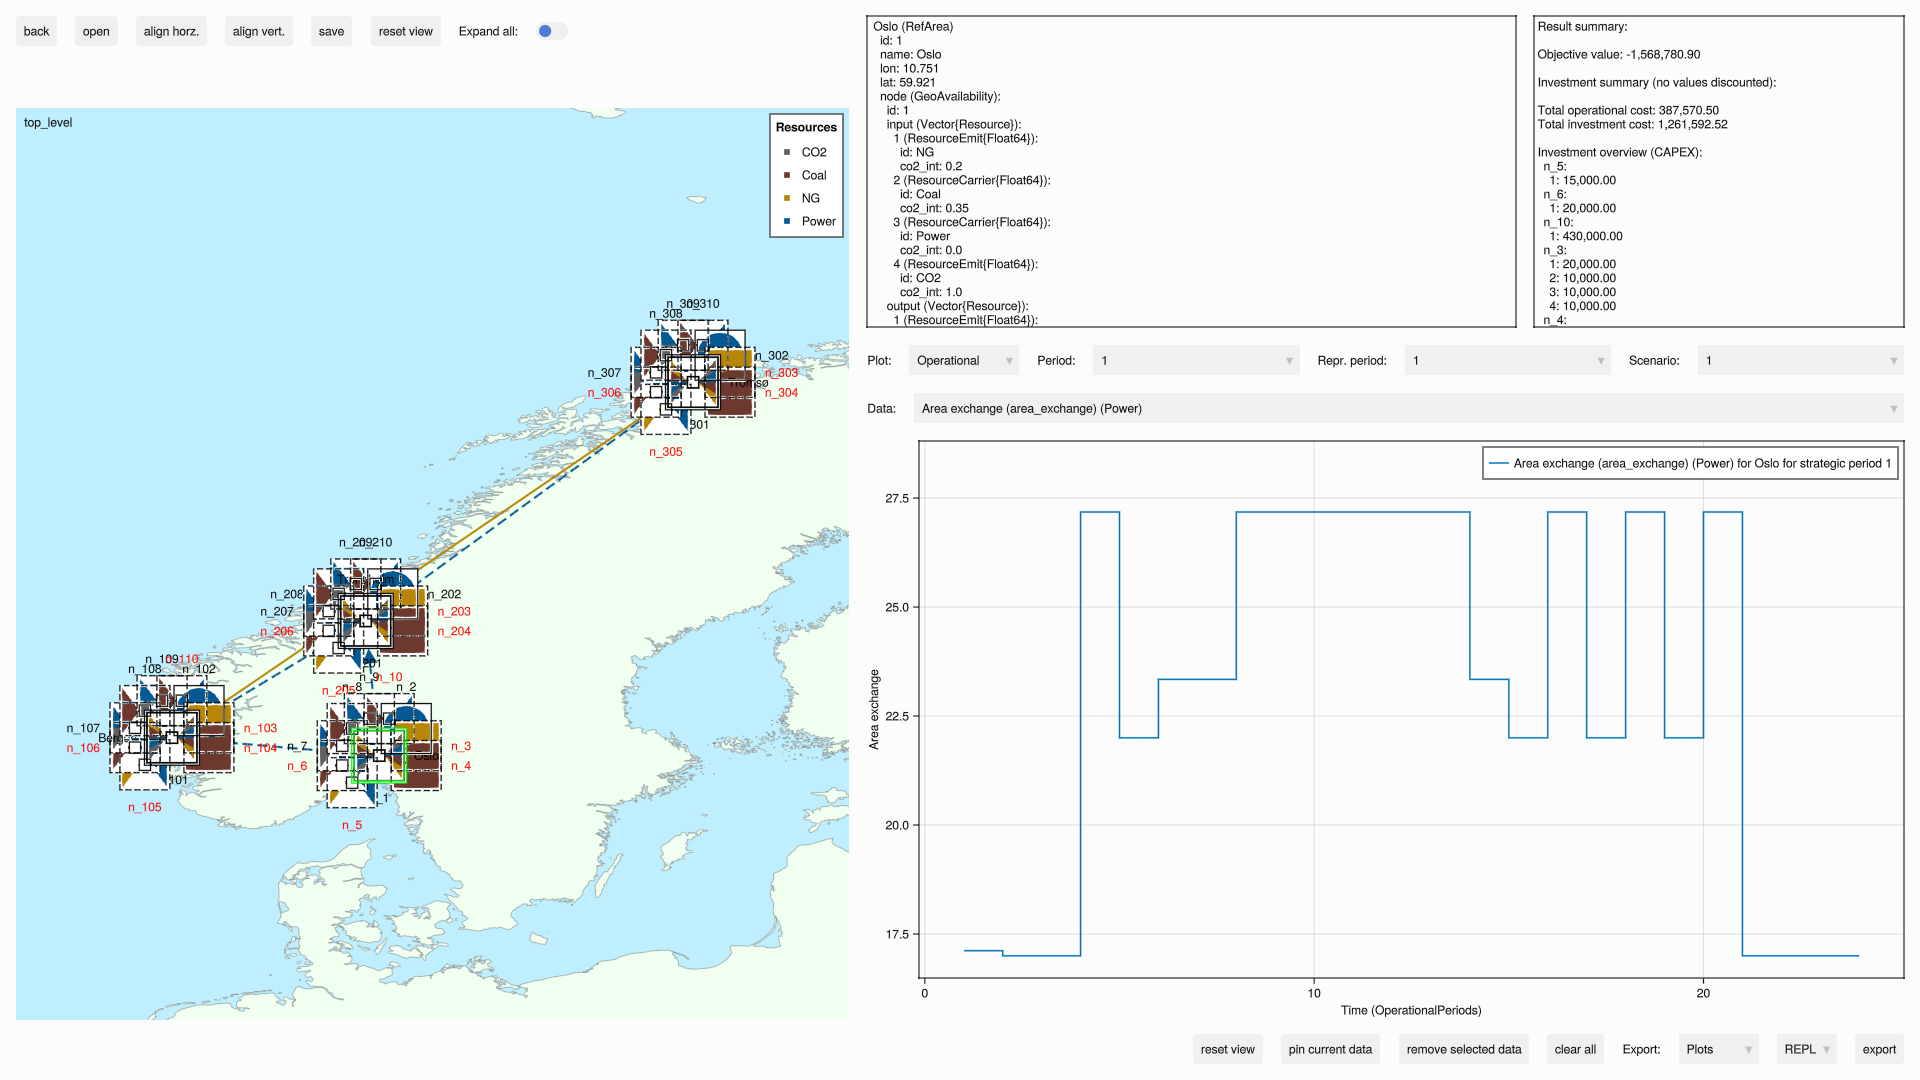
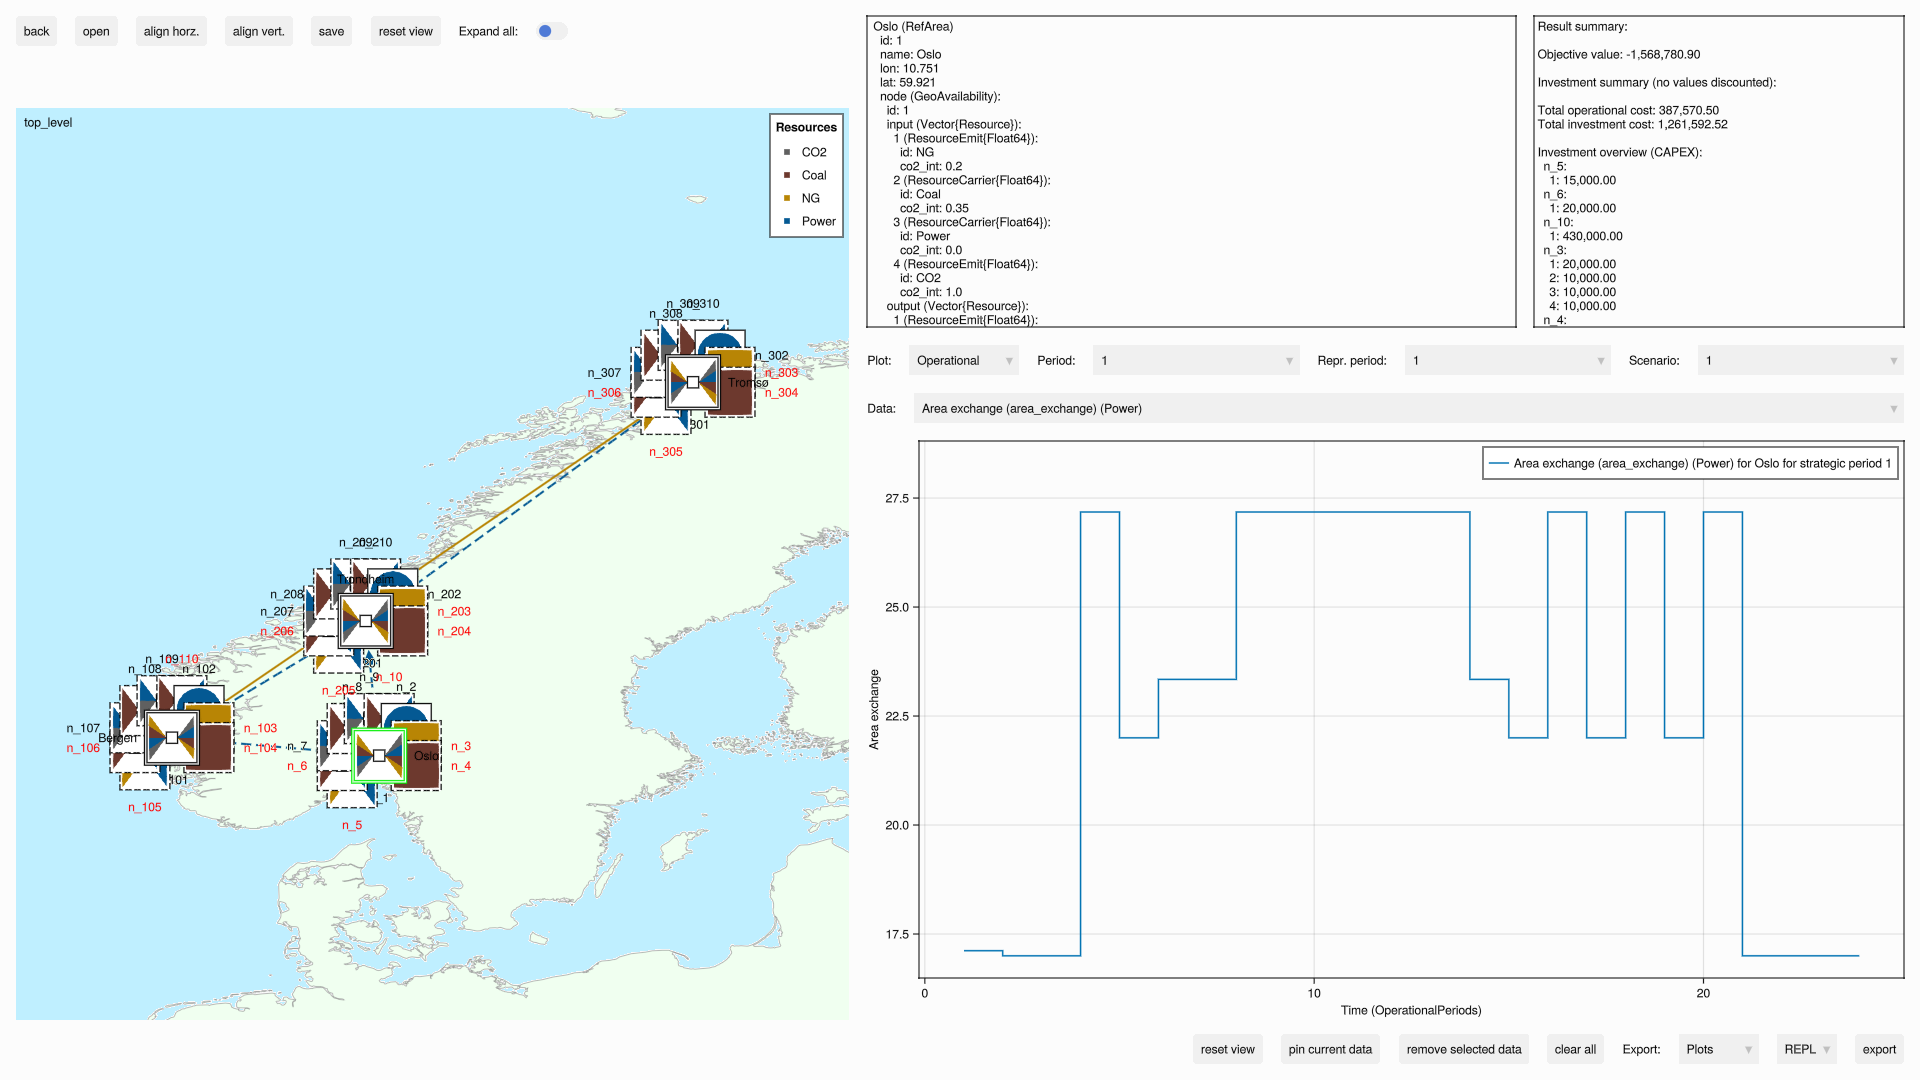
Format code and update figures and NEWS.md

diff --git a/NEWS.md b/NEWS.md
@@ -7,6 +7,10 @@
 * Added the option `pre_plot_sub_components` to the `GUI`-constructor to skip preplotting hidden sub components of an area (the option is by default `true`). The components of an `Area` are then plotted on demand (on the `open` functionality). This greatly enhances performance for large cases.
 * Improved general performance.
 
+# Adjustments
+
+* Adjusted the calculation of `Connection` plots.
+
 ## Version 0.5.17 (2025-11-19)
 
 ### Bugfix
